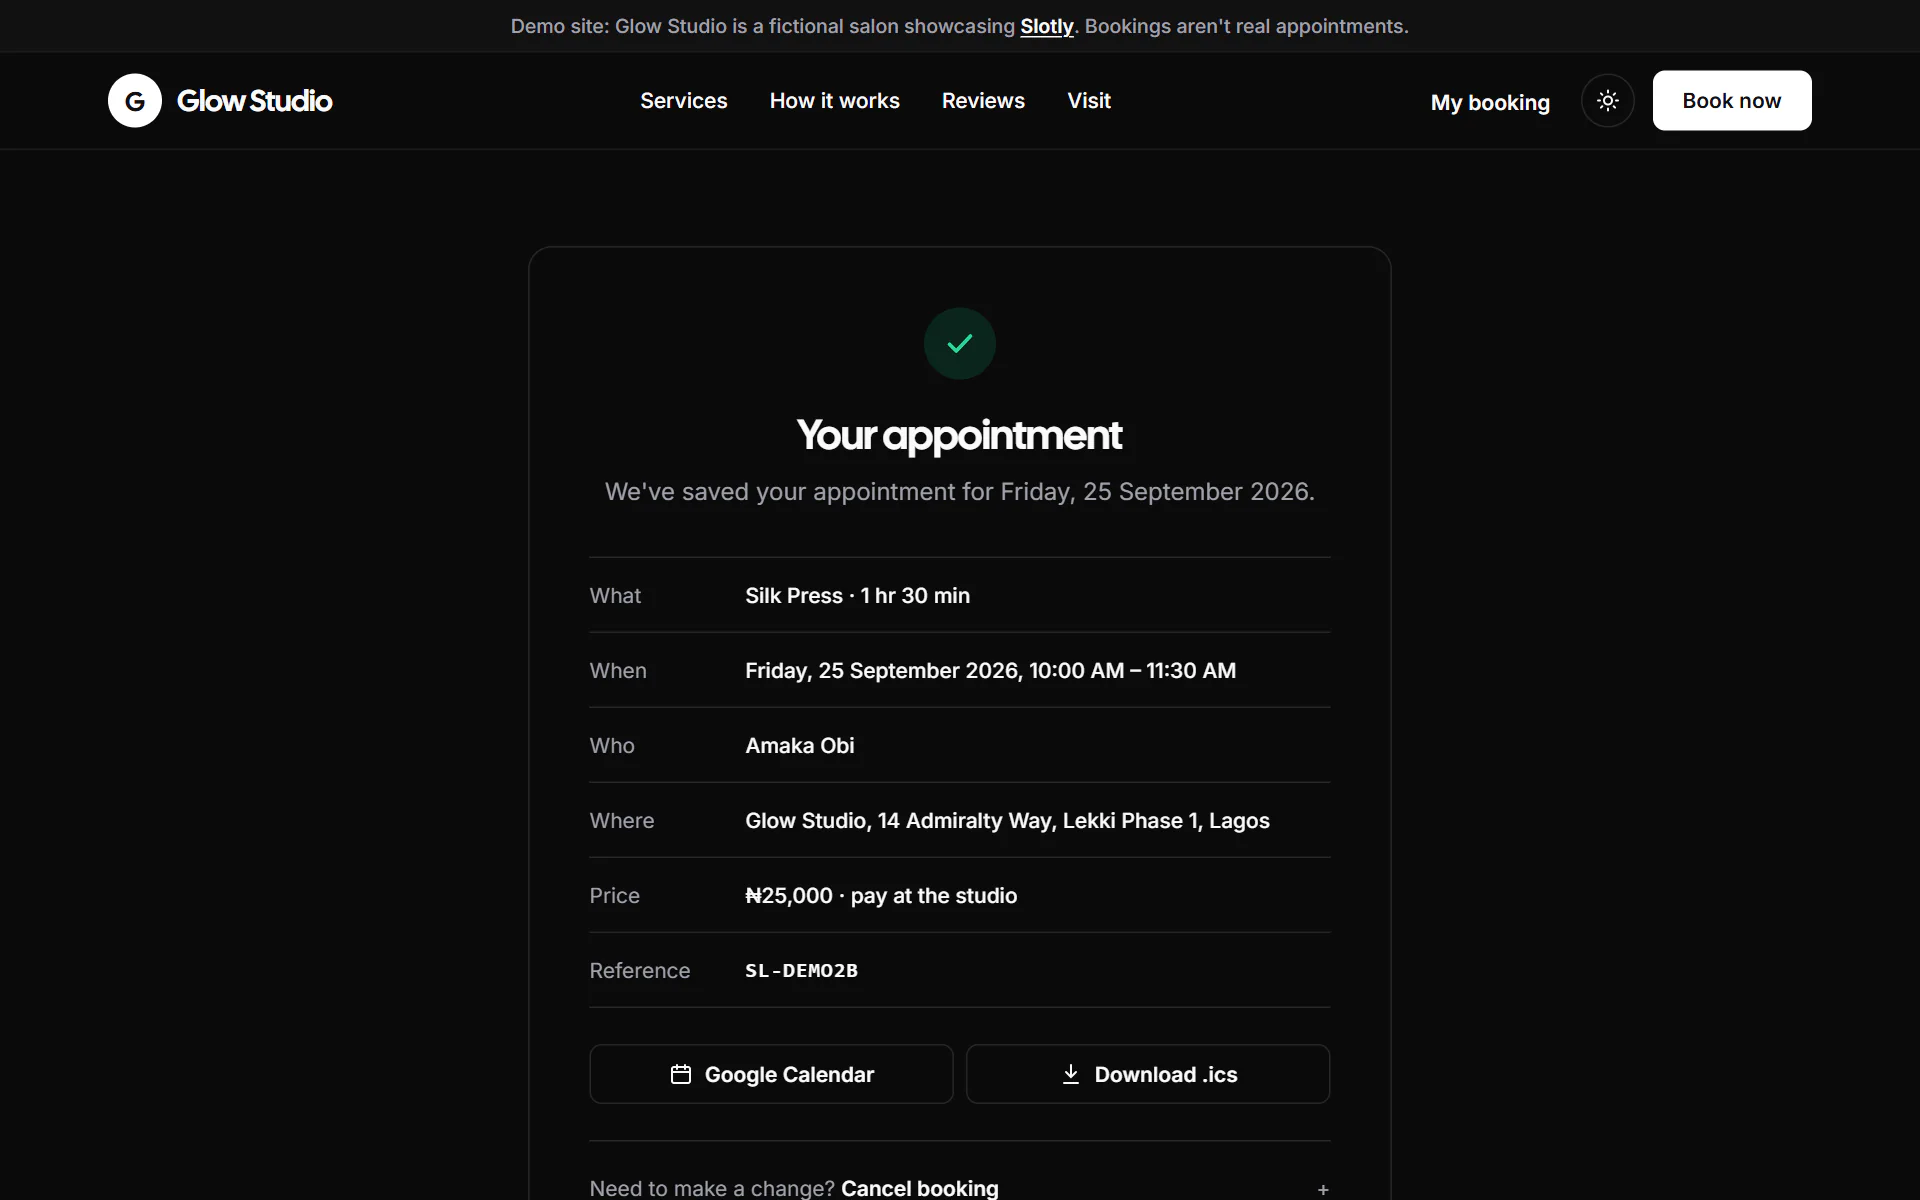
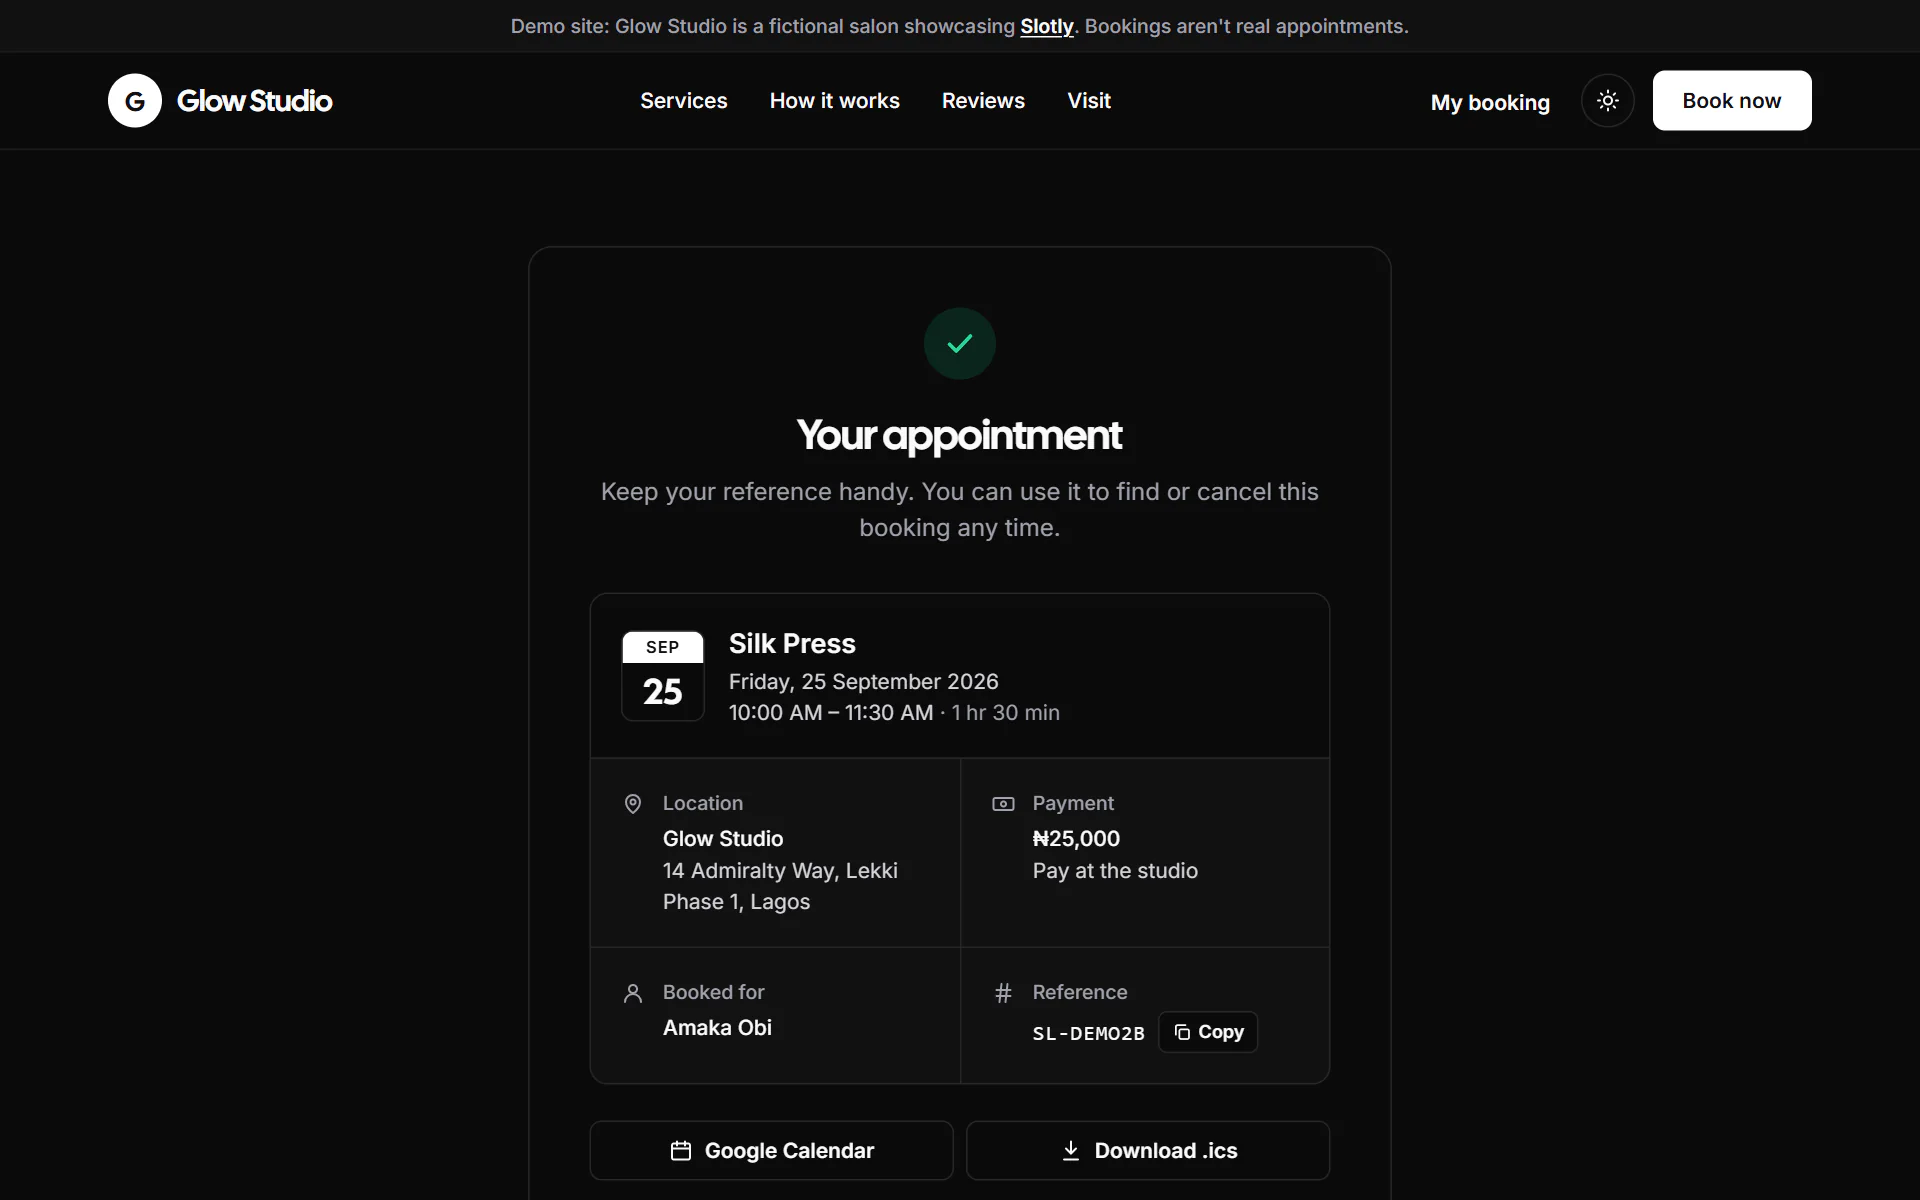
Redesign booking confirmation summary
Replace the What/When/Who/Where label rows with a structured summary:
a calendar date tile beside the service, date and time, then a 2x2
grid of icon tiles (location, payment, booked for, reference) with a
copy-to-clipboard button for the reference.

Also fix the calendar buttons collapsing to a sliver on phones (flex-1
in a column layout) and stop the time range wrapping mid-time.

diff --git a/src/app/booking/[reference]/page.tsx b/src/app/booking/[reference]/page.tsx
@@ -3,11 +3,12 @@ import Link from "next/link";
 import { notFound } from "next/navigation";
 import { cancelBookingByCustomer } from "@/app/actions";
 import { Confetti } from "@/components/confetti";
+import { CopyButton } from "@/components/copy-button";
 import { business } from "@/lib/business";
 import { googleCalendarUrl } from "@/lib/calendar";
 import { formatDuration, formatPrice } from "@/lib/format";
 import { getBookingByReference } from "@/lib/queries";
-import { formatDate, formatMinutes, nowInBusinessTz } from "@/lib/time";
+import { formatMinutes, nowInBusinessTz } from "@/lib/time";
 
 export async function generateMetadata({ params }: PageProps<"/booking/[reference]">): Promise<Metadata> {
   const { reference } = await params;
@@ -52,7 +53,7 @@ export default async function BookingPage({ params, searchParams }: PageProps<"/
     ? "The time slot has been released. You're welcome to book another time."
     : isPast
       ? "Thanks for visiting. We hope to see you again soon."
-      : `We've saved your appointment for ${formatDate(booking.date)}.`;
+      : "Keep your reference handy. You can use it to find or cancel this booking any time.";
 
   return (
     <div className="container-page py-10 md:py-16">
@@ -85,28 +86,57 @@ export default async function BookingPage({ params, searchParams }: PageProps<"/
             <p className="mt-2 body-md text-muted">{sub}</p>
           </div>
 
-          <dl className="mt-8 divide-y divide-hairline border-y border-hairline body-sm">
-            <Row label="What" value={`${service.name} · ${formatDuration(service.durationMin)}`} />
-            <Row
-              label="When"
-              value={`${formatDate(booking.date)}, ${formatMinutes(booking.startMin)} – ${formatMinutes(booking.endMin)}`}
-              strike={cancelled}
-            />
-            <Row label="Who" value={booking.customerName} />
-            <Row label="Where" value={`${business.name}, ${business.address}`} />
-            <Row label="Price" value={`${service.priceKobo ? formatPrice(service.priceKobo) : "Free"} · pay at the studio`} />
-            <div className="grid grid-cols-[88px_1fr] gap-4 py-3.5">
-              <dt className="text-muted">Reference</dt>
-              <dd className="font-mono text-[14px] font-semibold tracking-wider text-ink">{booking.reference}</dd>
+          {/* Appointment summary: date tile + service, then a grid of detail tiles */}
+          <div className="mt-8 overflow-hidden rounded-lg border border-hairline">
+            <div className="flex items-center gap-4 p-5">
+              <div
+                aria-hidden
+                className={`flex w-14 shrink-0 flex-col overflow-hidden rounded-md border border-hairline text-center ${cancelled ? "opacity-50" : ""}`}
+              >
+                <span className="bg-primary py-0.5 text-[11px] font-semibold tracking-wider text-on-primary uppercase">
+                  {dateParts(booking.date).month}
+                </span>
+                <span className="py-1 font-display text-[24px] leading-tight text-ink">{dateParts(booking.date).day}</span>
+              </div>
+              <div className="min-w-0">
+                <p className={`title-md ${cancelled ? "text-muted line-through" : ""}`}>{service.name}</p>
+                <p className="mt-0.5 body-sm text-body">{dateParts(booking.date).weekday}</p>
+                <p className="body-sm text-body">
+                  <span className="whitespace-nowrap">
+                    {formatMinutes(booking.startMin)} – {formatMinutes(booking.endMin)}
+                  </span>
+                  <span className="whitespace-nowrap text-muted"> · {formatDuration(service.durationMin)}</span>
+                </p>
+              </div>
             </div>
-          </dl>
+
+            <dl className="grid gap-px border-t border-hairline bg-hairline sm:grid-cols-2">
+              <Detail icon="pin" label="Location">
+                {business.name}
+                <span className="block font-normal text-body">{business.address}</span>
+              </Detail>
+              <Detail icon="price" label="Payment">
+                {service.priceKobo ? formatPrice(service.priceKobo) : "Free"}
+                <span className="block font-normal text-body">Pay at the studio</span>
+              </Detail>
+              <Detail icon="user" label="Booked for">
+                {booking.customerName}
+              </Detail>
+              <Detail icon="hash" label="Reference">
+                <span className="flex flex-wrap items-center gap-2">
+                  <span className="font-mono tracking-wider">{booking.reference}</span>
+                  <CopyButton text={booking.reference} />
+                </span>
+              </Detail>
+            </dl>
+          </div>
 
           {upcoming && (
             <div className="mt-6 flex flex-col gap-2 sm:flex-row">
-              <a href={googleCalendarUrl(event)} target="_blank" rel="noopener noreferrer" className="btn-secondary flex-1">
+              <a href={googleCalendarUrl(event)} target="_blank" rel="noopener noreferrer" className="btn-secondary w-full sm:flex-1">
                 <CalendarIcon /> Google Calendar
               </a>
-              <a href={`/booking/${booking.reference}/calendar`} className="btn-secondary flex-1">
+              <a href={`/booking/${booking.reference}/calendar`} className="btn-secondary w-full sm:flex-1">
                 <DownloadIcon /> Download .ics
               </a>
             </div>
@@ -147,11 +177,49 @@ export default async function BookingPage({ params, searchParams }: PageProps<"/
   );
 }
 
-function Row({ label, value, strike = false }: { label: string; value: string; strike?: boolean }) {
+function dateParts(date: string) {
+  const d = new Date(`${date}T00:00:00Z`);
+  const fmt = (o: Intl.DateTimeFormatOptions) => new Intl.DateTimeFormat("en-GB", { ...o, timeZone: "UTC" }).format(d);
+  return {
+    month: fmt({ month: "short" }).slice(0, 3),
+    day: fmt({ day: "numeric" }),
+    weekday: fmt({ weekday: "long", day: "numeric", month: "long", year: "numeric" }),
+  };
+}
+
+const DETAIL_ICONS = {
+  pin: (
+    <>
+      <path d="M12 21s-7-5.5-7-11a7 7 0 0 1 14 0c0 5.5-7 11-7 11z" />
+      <circle cx="12" cy="10" r="2.5" />
+    </>
+  ),
+  price: (
+    <>
+      <rect x="2" y="6" width="20" height="12" rx="2" />
+      <circle cx="12" cy="12" r="2.5" />
+    </>
+  ),
+  user: (
+    <>
+      <circle cx="12" cy="8" r="4" />
+      <path d="M4 21a8 8 0 0 1 16 0" />
+    </>
+  ),
+  hash: <path d="M5 9h14M5 15h14M10 3 8 21M16 3l-2 18" />,
+};
+
+/** One tile in the booking summary grid: icon, small label, value. */
+function Detail({ icon, label, children }: { icon: keyof typeof DETAIL_ICONS; label: string; children: React.ReactNode }) {
   return (
-    <div className="grid grid-cols-[88px_1fr] gap-4 py-3.5">
-      <dt className="text-muted">{label}</dt>
-      <dd className={`font-medium text-ink ${strike ? "line-through" : ""}`}>{value}</dd>
+    <div className="flex gap-3 bg-surface-soft p-5">
+      <svg viewBox="0 0 24 24" className="mt-0.5 size-4 shrink-0 text-muted" fill="none" stroke="currentColor" strokeWidth="2" strokeLinecap="round" strokeLinejoin="round" aria-hidden>
+        {DETAIL_ICONS[icon]}
+      </svg>
+      <div className="min-w-0">
+        <dt className="caption text-muted">{label}</dt>
+        <dd className="mt-1 body-sm font-medium text-ink">{children}</dd>
+      </div>
     </div>
   );
 }

diff --git a/src/components/copy-button.tsx b/src/components/copy-button.tsx
@@ -1,0 +1,47 @@
+"use client";
+
+import { useState } from "react";
+
+/** Copies text to the clipboard and briefly confirms. */
+export function CopyButton({ text, label = "Copy" }: { text: string; label?: string }) {
+  const [copied, setCopied] = useState(false);
+
+  async function copy() {
+    try {
+      await navigator.clipboard.writeText(text);
+      setCopied(true);
+      setTimeout(() => setCopied(false), 2000);
+    } catch {
+      // Clipboard can be blocked (insecure context, permissions); the text stays selectable.
+    }
+  }
+
+  return (
+    <button
+      type="button"
+      onClick={copy}
+      className="inline-flex h-7 cursor-pointer items-center gap-1 rounded-sm border border-hairline bg-canvas px-2 text-[12px] font-semibold text-ink active:bg-surface-soft"
+      aria-label={copied ? "Copied" : `${label} ${text}`}
+    >
+      {copied ? (
+        <>
+          <svg viewBox="0 0 24 24" className="size-3.5 text-success-text" fill="none" stroke="currentColor" strokeWidth="2.5" strokeLinecap="round" strokeLinejoin="round" aria-hidden>
+            <path d="M5 12.5l4.5 4.5L19 7" />
+          </svg>
+          Copied
+        </>
+      ) : (
+        <>
+          <svg viewBox="0 0 24 24" className="size-3.5" fill="none" stroke="currentColor" strokeWidth="2" strokeLinecap="round" strokeLinejoin="round" aria-hidden>
+            <rect x="9" y="9" width="11" height="11" rx="2" />
+            <path d="M5 15V6a2 2 0 0 1 2-2h9" />
+          </svg>
+          {label}
+        </>
+      )}
+      <span className="sr-only" aria-live="polite">
+        {copied ? "Reference copied" : ""}
+      </span>
+    </button>
+  );
+}
